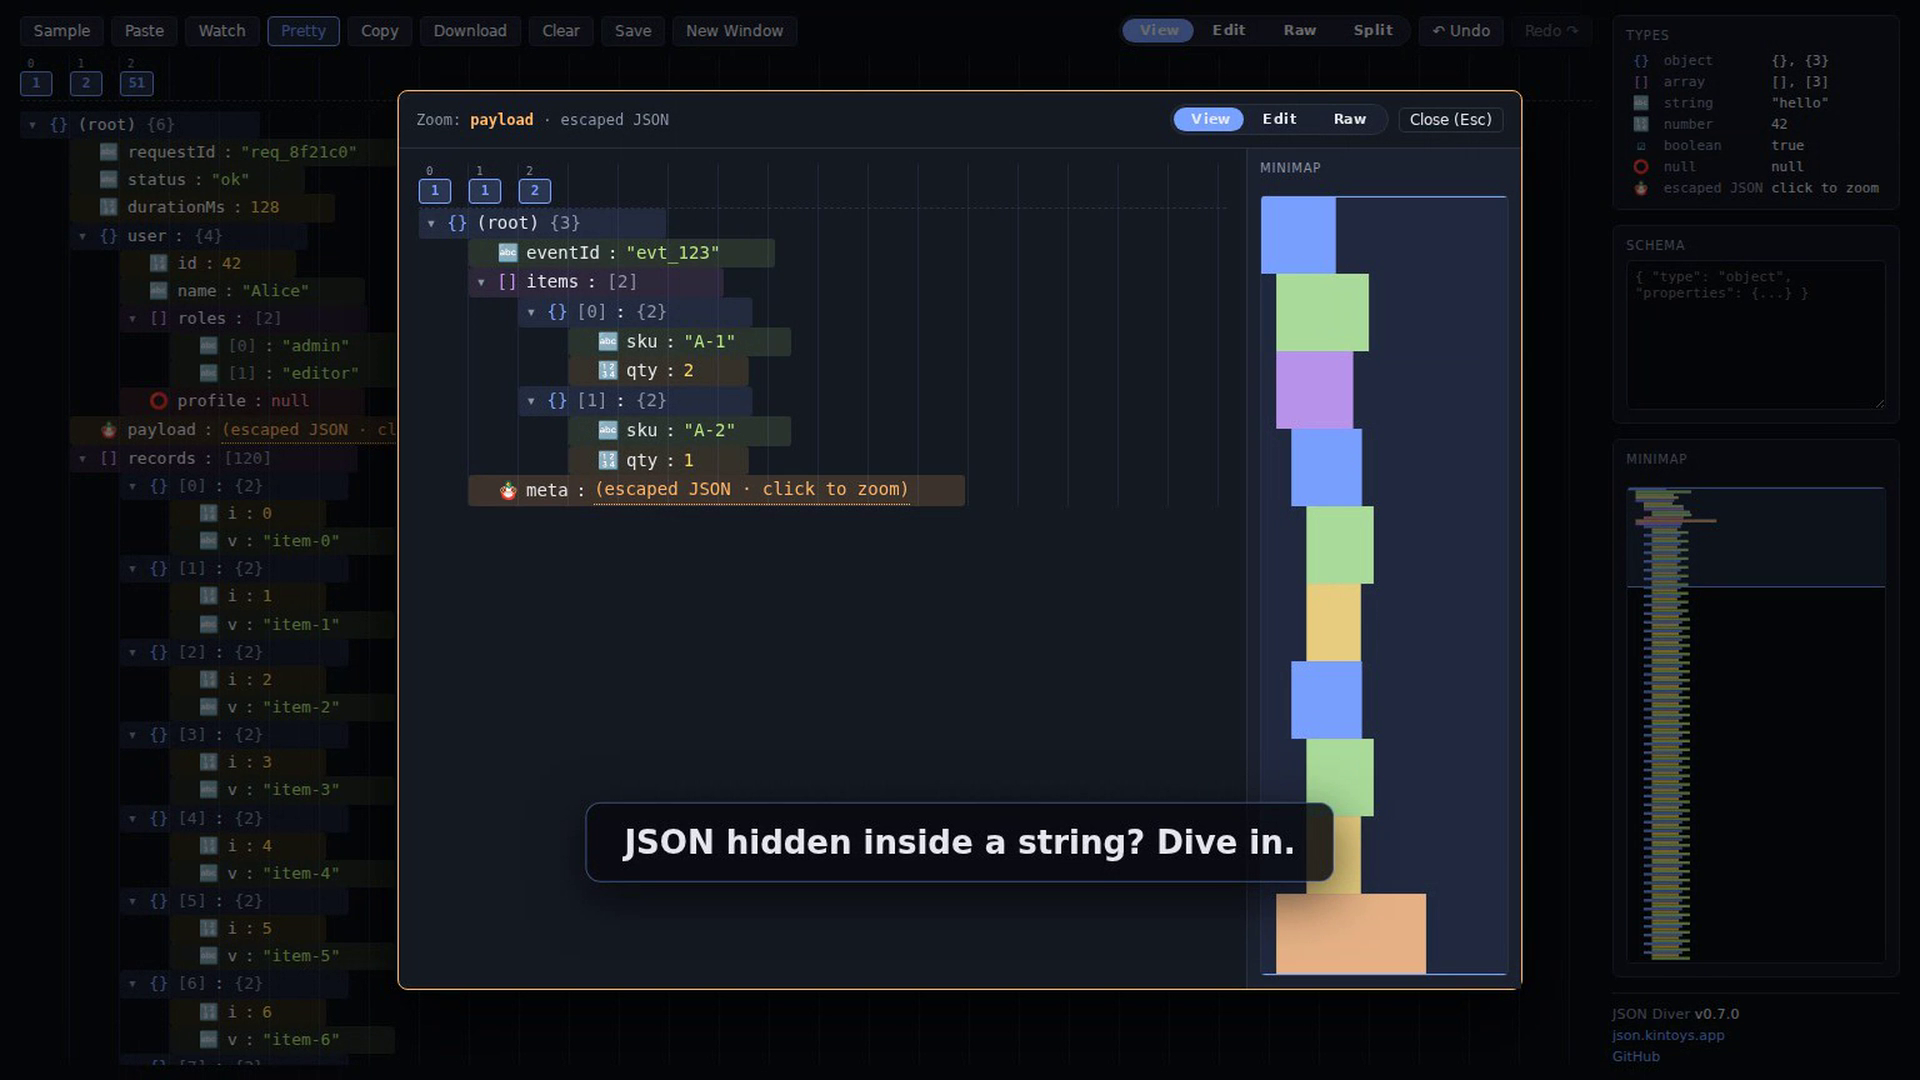
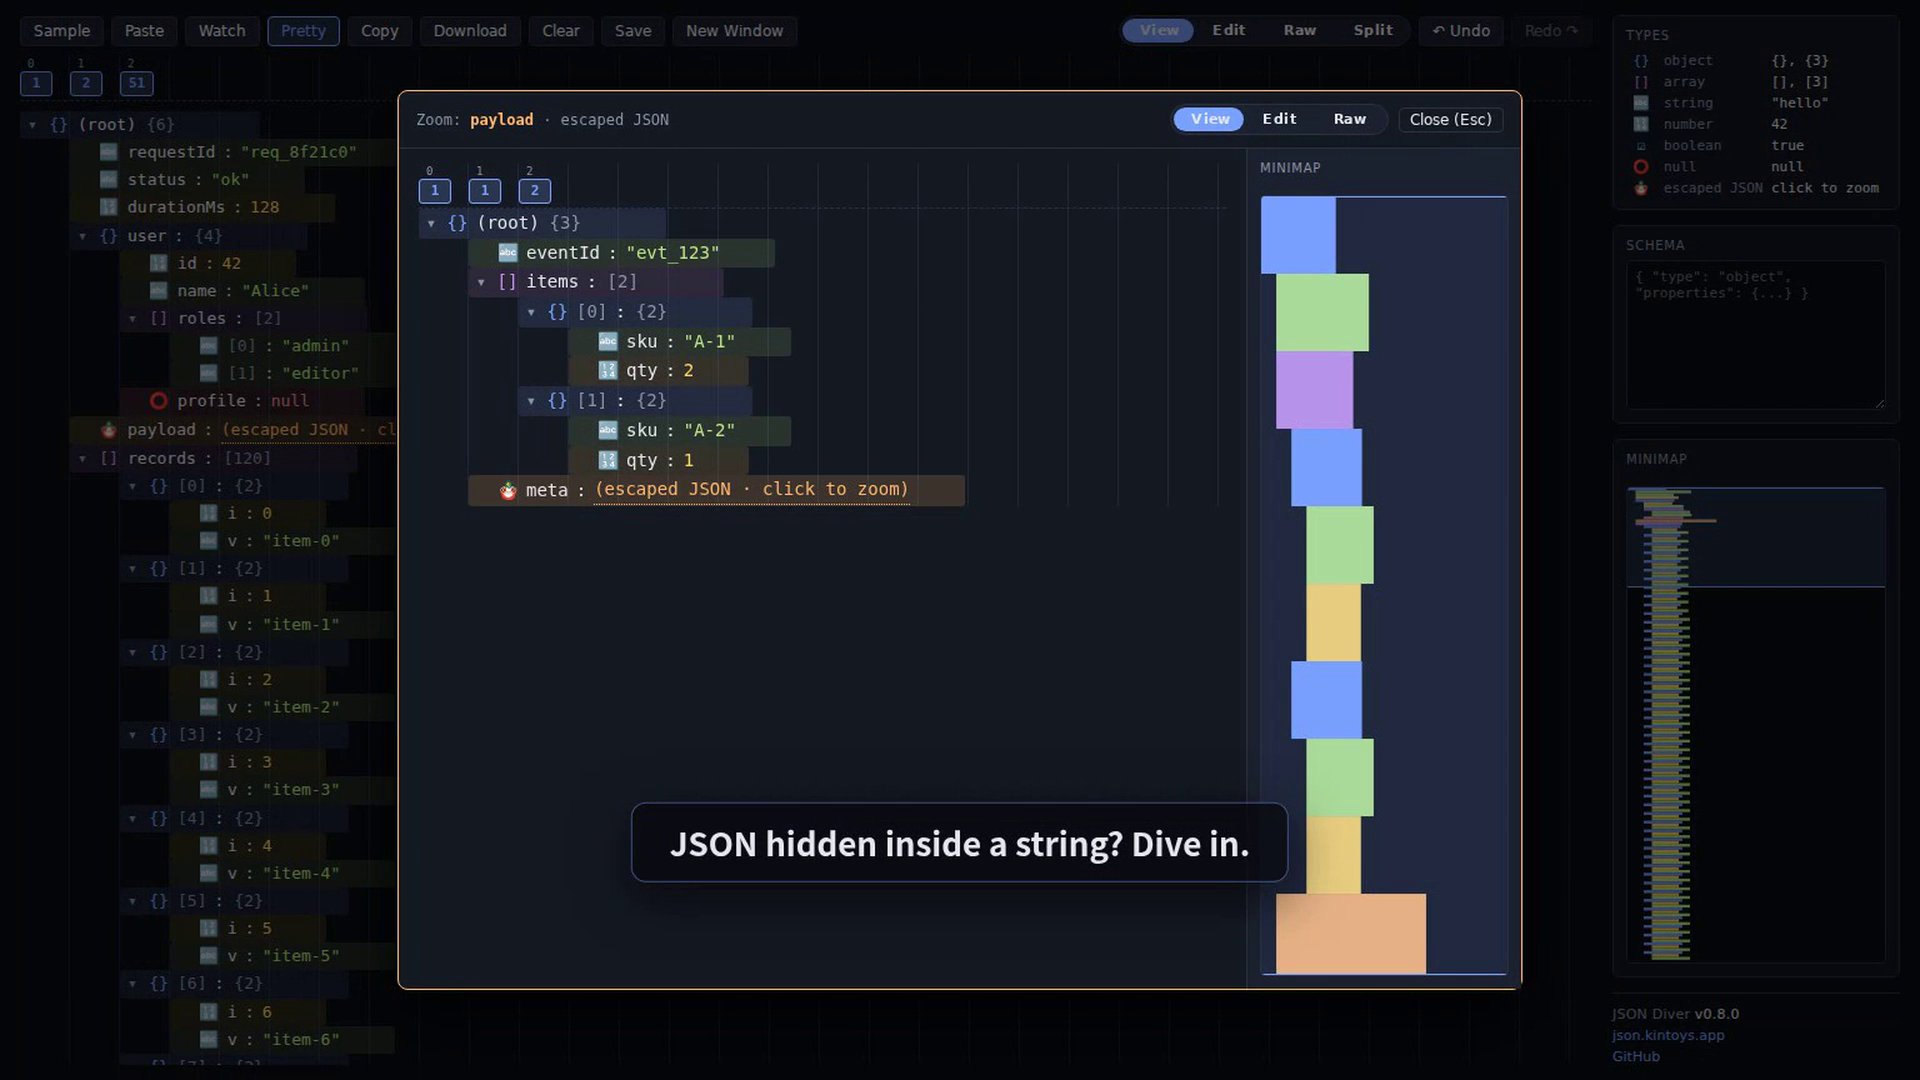
docs(store): トレーラーを v0.8.0 で撮り直し、字幕トラック版を追加
収録スクリプトを言語切り替え対応にし、英語・日本語・テロップなしの 3 本を同じ
タイミングから作れるようにした。テロップなし版には日英の .srt を添える。

- 字幕の時刻は収録中に実測して captions-<lang>.json に出力する。mp4 は頭を
  1.05 秒トリムしているので時刻がずれるが、タイムラインの終端と動画の終端が
  同じ瞬間であることを使って make-srt.mjs が補正量を自動算出する。シーンの
  尺を変えても字幕を作り直すだけで追従する
- テロップなし版はエンドカードのキャッチコピーも外した。言語依存の文言なので、
  各 .srt の最後のキューとして出す
- サムネイルも v0.8.0 のズーム場面から取り直し（旧版はサイドバーが v0.7.0）

Claude-Session: https://claude.ai/code/session_01SVssBrZETX7UxQiRKb8Lag

Changed region(s): [[0.3125, 0.7333, 0.7188, 0.8556]]

diff --git a/store/README.md b/store/README.md
@@ -12,7 +12,7 @@ Everything Partner Center asks for, ready to paste or upload.
 | `screenshots/*.png` | スクリーンショット (PC) — 1366×768 |
 | `trailer-thumbnail-1920x1080.png` | トレーラーのサムネイル (必須) |
 | `hero-1920x1080.png` | 16:9 スーパーヒーローアート |
-| （リポジトリ外） `work/JSON-Diver-trailer-v0.7.0.mp4` | トレーラー本体 — 大きいので git には入れていない |
+| （リポジトリ外） `work/JSON-Diver-trailer-en-v0.8.0.mp4` | トレーラー本体 — 大きいので git には入れていない |
 
 Two languages are listed because a ja + en-US pair widens search coverage: the same
 build serves both, only the listing text differs.
@@ -52,8 +52,19 @@ node shots.mjs   # see the session scratchpad, or re-run the same Playwright ste
 
 ## Trailer
 
-`work/JSON-Diver-trailer-v0.7.0.mp4` — 53.0s, 1920×1080, H.264 High / yuv420p, silent
+`work/JSON-Diver-trailer-en-v0.8.0.mp4` — 52.4s, 1920×1080, H.264 High / yuv420p, silent
 AAC-LC stereo 48 kHz, closed GOP 12, moov atom first. Within every Store requirement.
+
+Three cuts exist, from the same script and the same timings:
+
+| File | Captions | Use |
+| --- | --- | --- |
+| `JSON-Diver-trailer-en-v0.8.0.mp4` | burnt in, English | the Store, which has no subtitle track |
+| `JSON-Diver-trailer-ja-v0.8.0.mp4` | burnt in, Japanese | anywhere subtitles cannot be selected |
+| `JSON-Diver-trailer-nocaption-v0.8.0.mp4` | none | YouTube and the blog, with `trailer-{en,ja}.srt` |
+
+The caption-free cut also drops the tagline from the end card, because that line is
+language-specific; it is the last cue of each .srt instead.
 
 Title to enter alongside it (max 255 chars):
 
@@ -71,7 +82,15 @@ centred — hence the abstract composition rather than a screenshot.
 Both the trailer and the hero art are generated, not hand-edited:
 `work/record-trailer.mjs` drives the live app and bakes the captions in as DOM
 overlays; `work/render-hero.mjs` renders the artwork as SVG. Re-run either after a
-UI change.
+UI change:
+
+```bash
+node record-trailer.mjs en     # or ja, or none for the subtitle-track cut
+node make-srt.mjs <captions-none.json> <nocaption.mp4> .   # regenerates both .srt
+```
+
+The subtitle timings are the ones the recording measured, not a transcription of the
+script's waits, so they follow a change in scene timing on their own.
 
 ## Before uploading
 
